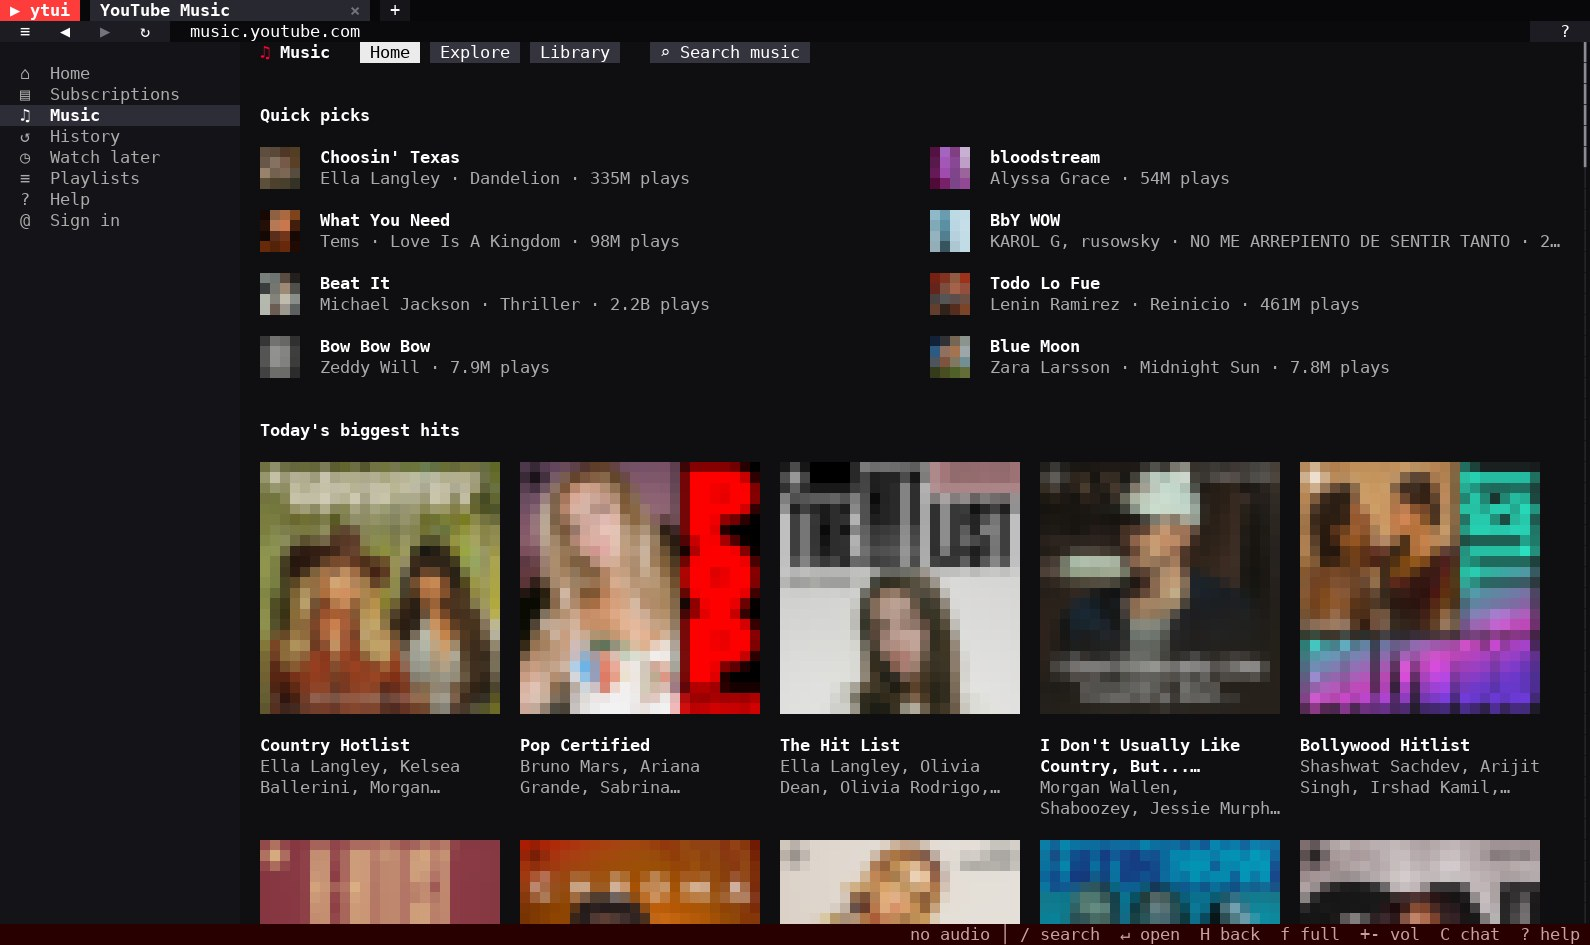
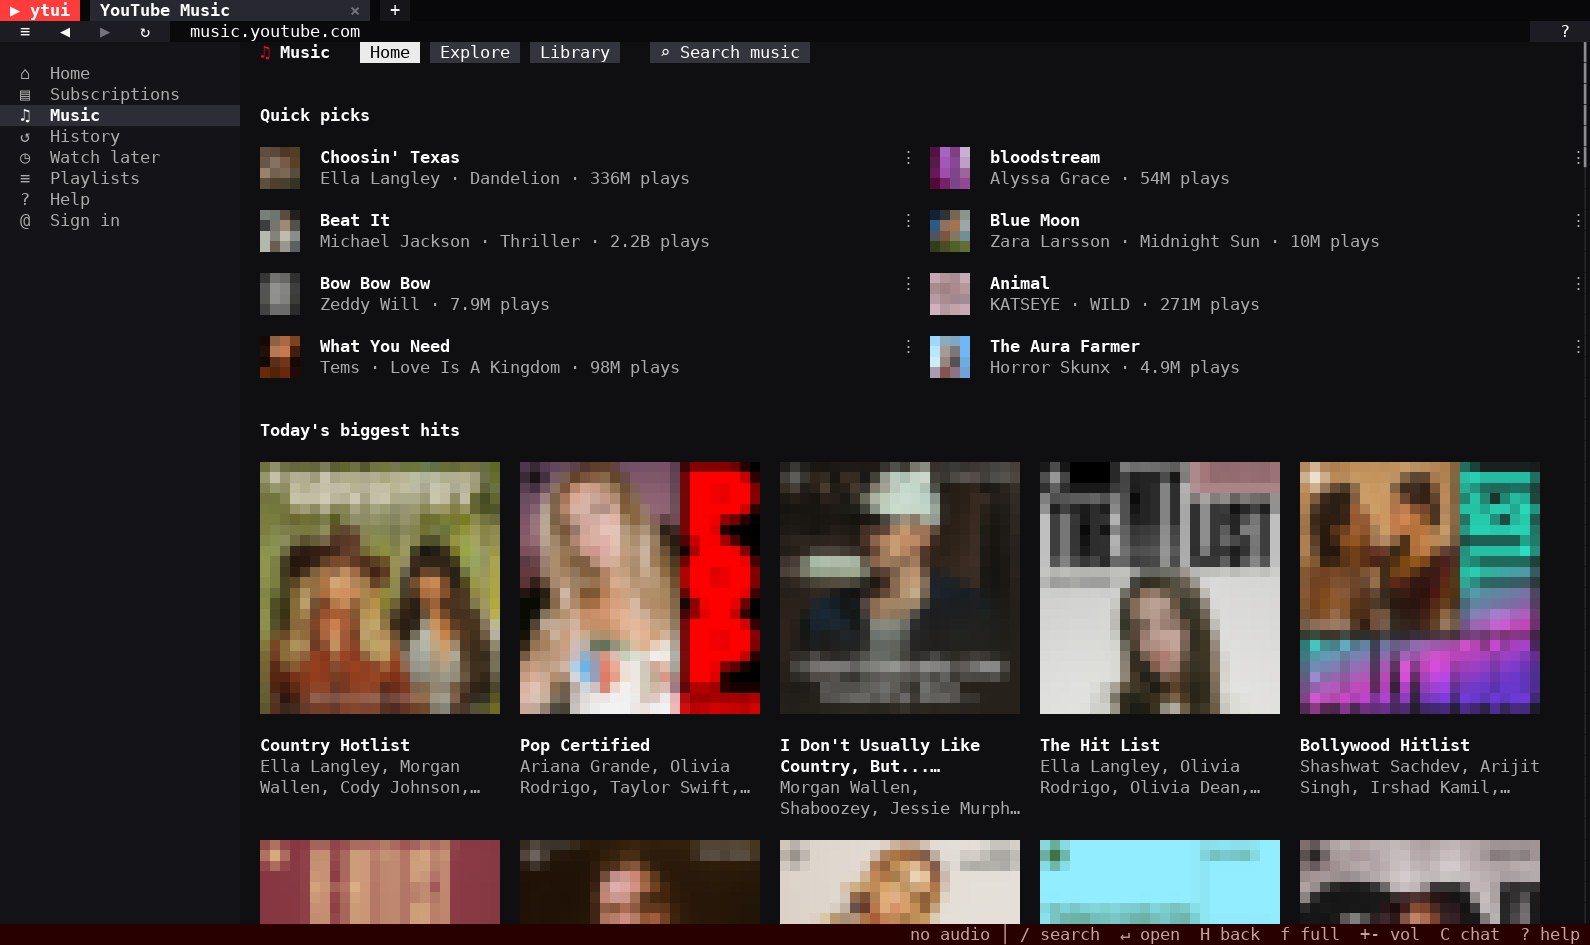
Screenshots show the song menu
Retake the music screenshots signed out at 159x45: the album page
(25 Years (Volume 2), Kevin MacLeod, CC BY 4.0) with Breaktime's song
menu popped out, the music player paused on Breaktime, and Music Home,
so the song rows show their ⋮. Alt text follows, and Music Home's says
two columns of Quick picks, as it shows.

The credits row's icon is ♫ instead of ⓘ, which few terminal fonts have.

diff --git a/src/app.rs b/src/app.rs
@@ -2039,7 +2039,7 @@ impl App {
         if let Some(a) = song.video.channel_id.clone().filter(|a| !a.is_empty()) {
             rows.push(DRow { label: "♪  Go to artist".into(), act: DAct::Artist(a) });
         }
-        rows.push(DRow { label: "ⓘ  View song credits".into(), act: DAct::Credits });
+        rows.push(DRow { label: "♫  View song credits".into(), act: DAct::Credits });
         rows.push(DRow { label: "↗  Share".into(), act: DAct::Share });
         self.dialog = Some(Dialog { title: String::new(), rows, sel: 0, video: None, member: Default::default(), loading: false, song: Some(Box::new(song)), at: Some(at) });
     }

diff --git a/docs/guide/youtube-music.md b/docs/guide/youtube-music.md
@@ -7,7 +7,7 @@ description: Use YouTube Music in the terminal with ytui. Browse Home, Explore, 
 music.youtube.com site rebuilt in the terminal, and it talks to YouTube Music's own service, so you see
 the same shelves, charts and recommendations. Pasting a music.youtube.com link opens it there too.
 
-![ytui's YouTube Music Home, signed out: Quick picks as three columns of songs, then Today's biggest hits as album-art cards]({{ '/screenshots/music-home.jpg' | relative_url }})
+![ytui's YouTube Music Home, signed out: Quick picks as two columns of songs, each with its ⋮ menu button, then Today's biggest hits as album-art cards]({{ '/screenshots/music-home.jpg' | relative_url }})
 
 ## Pages
 
@@ -27,7 +27,7 @@ The bar at the top of every Music page has **Home**, **Explore**, **Library** an
 - **Library** (signed in): your playlists, liked songs, albums, artists, subscriptions and
   history.
 
-![The album 25 Years (Volume 2) by Kevin MacLeod: its cover beside the title and Play and Shuffle buttons, then the numbered track list]({{ '/screenshots/music-album.jpg' | relative_url }})
+![The album 25 Years (Volume 2) by Kevin MacLeod: its cover beside the title and Play and Shuffle buttons, then the numbered track list, with the song menu popped out from Breaktime (Start mix, Play next, Add to queue and the rest)]({{ '/screenshots/music-album.jpg' | relative_url }})
 
 ## Playing music
 
@@ -43,7 +43,7 @@ it are three tabs:
 When a song ends, the next one in the queue starts. The playback keys are the same as for videos
 (`space` pauses, `,` `.` seek 10 s, `+` `-` volume, `f` fullscreen).
 
-![The music player paused on Breaktime by Kevin MacLeod: the album cover as the picture, the song and album below, and the album's songs in Up next, with the player controls on the cover]({{ '/screenshots/music-player.jpg' | relative_url }})
+![The music player paused on Breaktime by Kevin MacLeod: the album cover as the picture, the song and album below, and the album's songs in Up next, each with its ⋮ menu button, with the player controls on the cover]({{ '/screenshots/music-player.jpg' | relative_url }})
 
 ## Song menu
 

diff --git a/README.md b/README.md
@@ -132,7 +132,7 @@ music player with Up next, Lyrics and Related tabs. A song from an album or play
 that list; anywhere else it starts a radio. music.youtube.com links open there too.
 [More about YouTube Music in ytui](https://bong-water-water-bong.github.io/ytui/guide/youtube-music/).
 
-![The music player paused on Breaktime by Kevin MacLeod: the album cover as the picture, the song and album below, and the album's songs in Up next, with the player controls on the cover](docs/screenshots/music-player.jpg)
+![The music player paused on Breaktime by Kevin MacLeod: the album cover as the picture, the song and album below, and the album's songs in Up next, each with its ⋮ menu button, with the player controls on the cover](docs/screenshots/music-player.jpg)
 <sub>Shows *25 Years (Volume 2)* by [Kevin MacLeod](https://incompetech.com/), licensed [CC BY 4.0](https://creativecommons.org/licenses/by/4.0/).</sub>
 
 ## Colours under tmux
